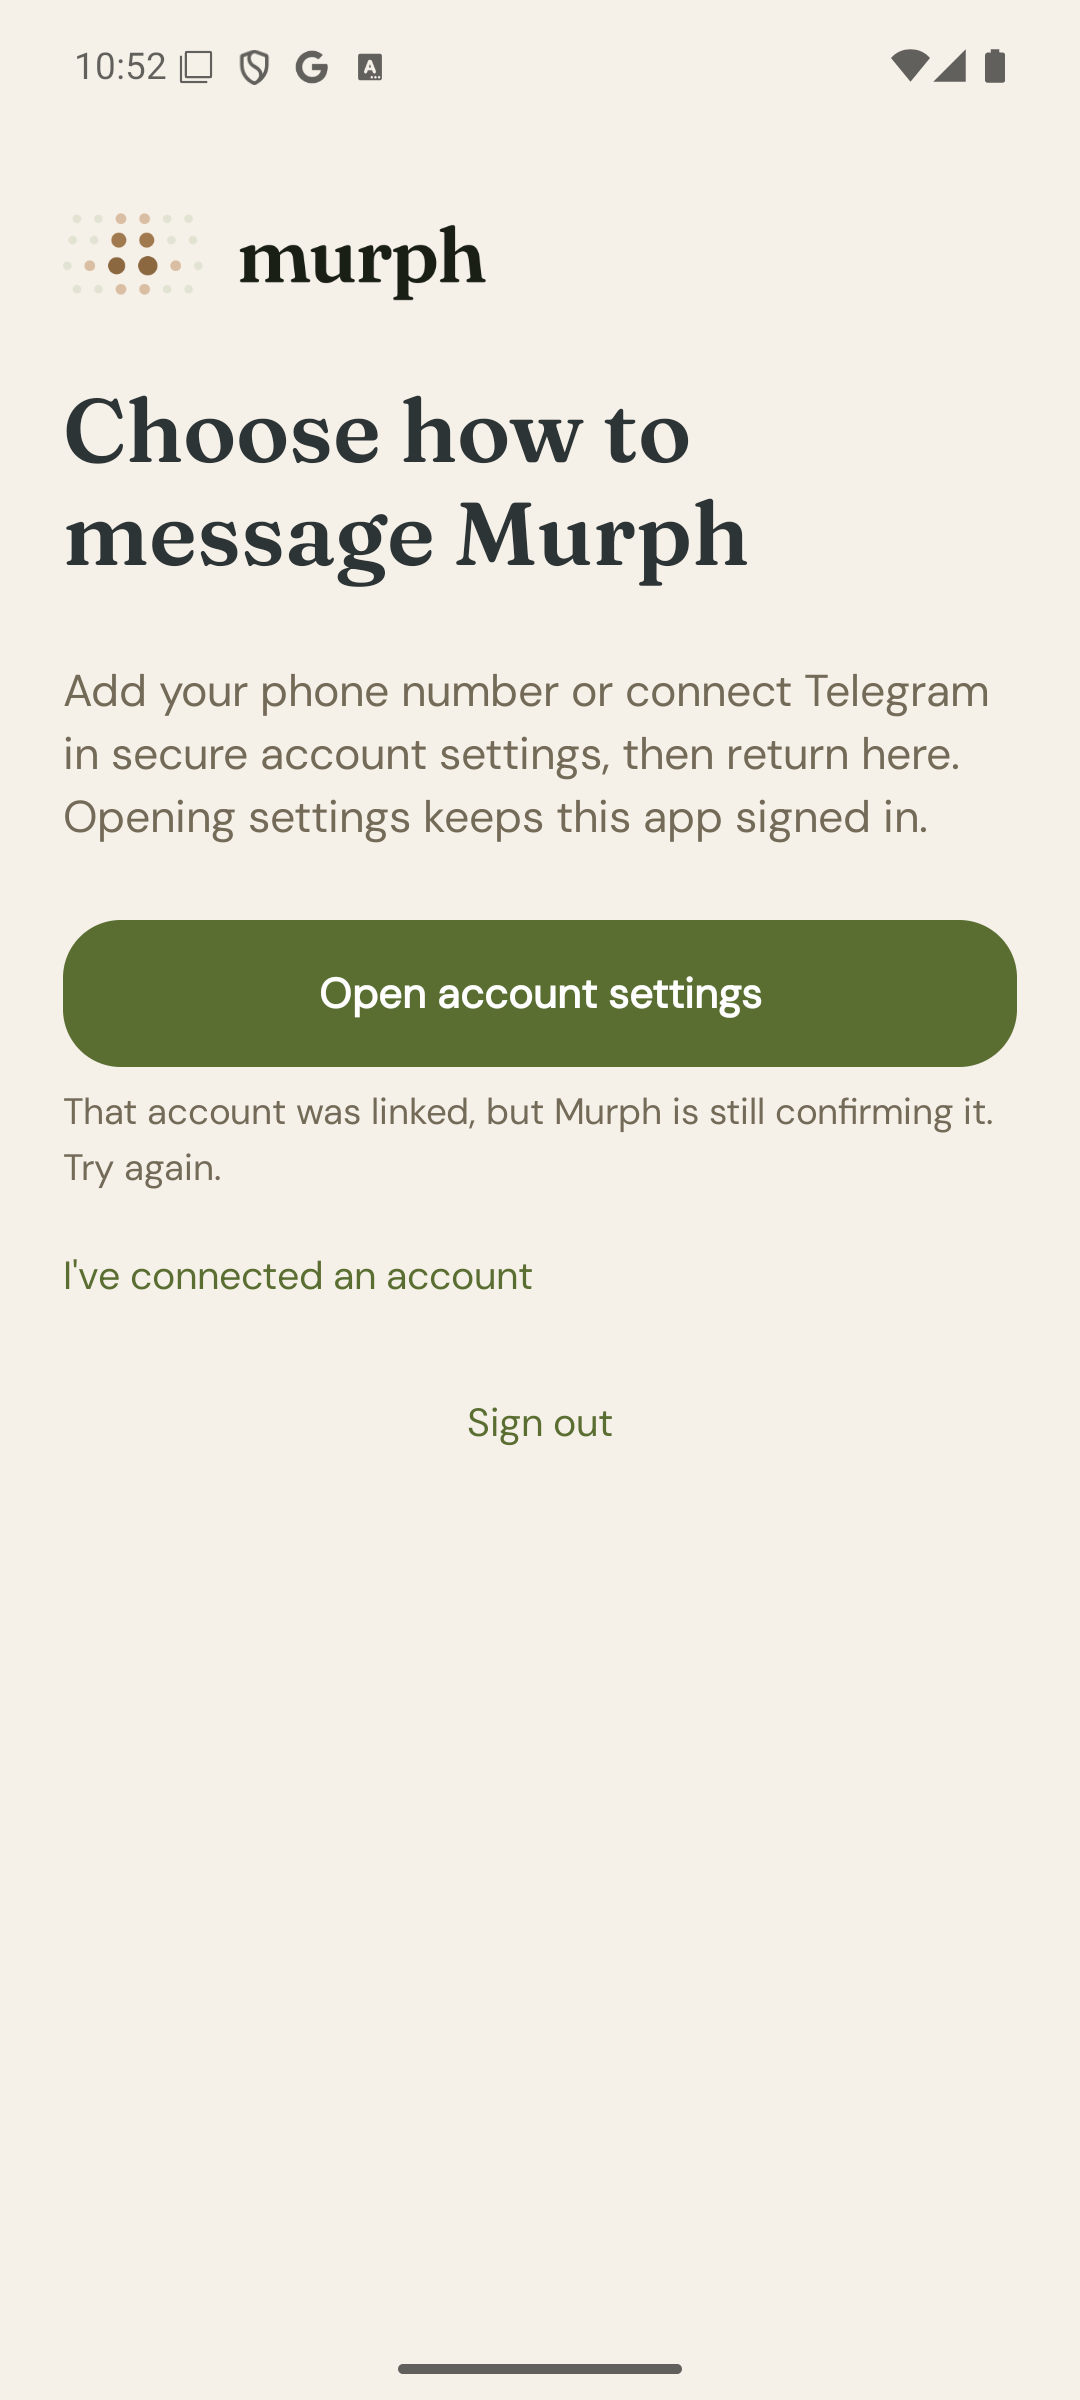
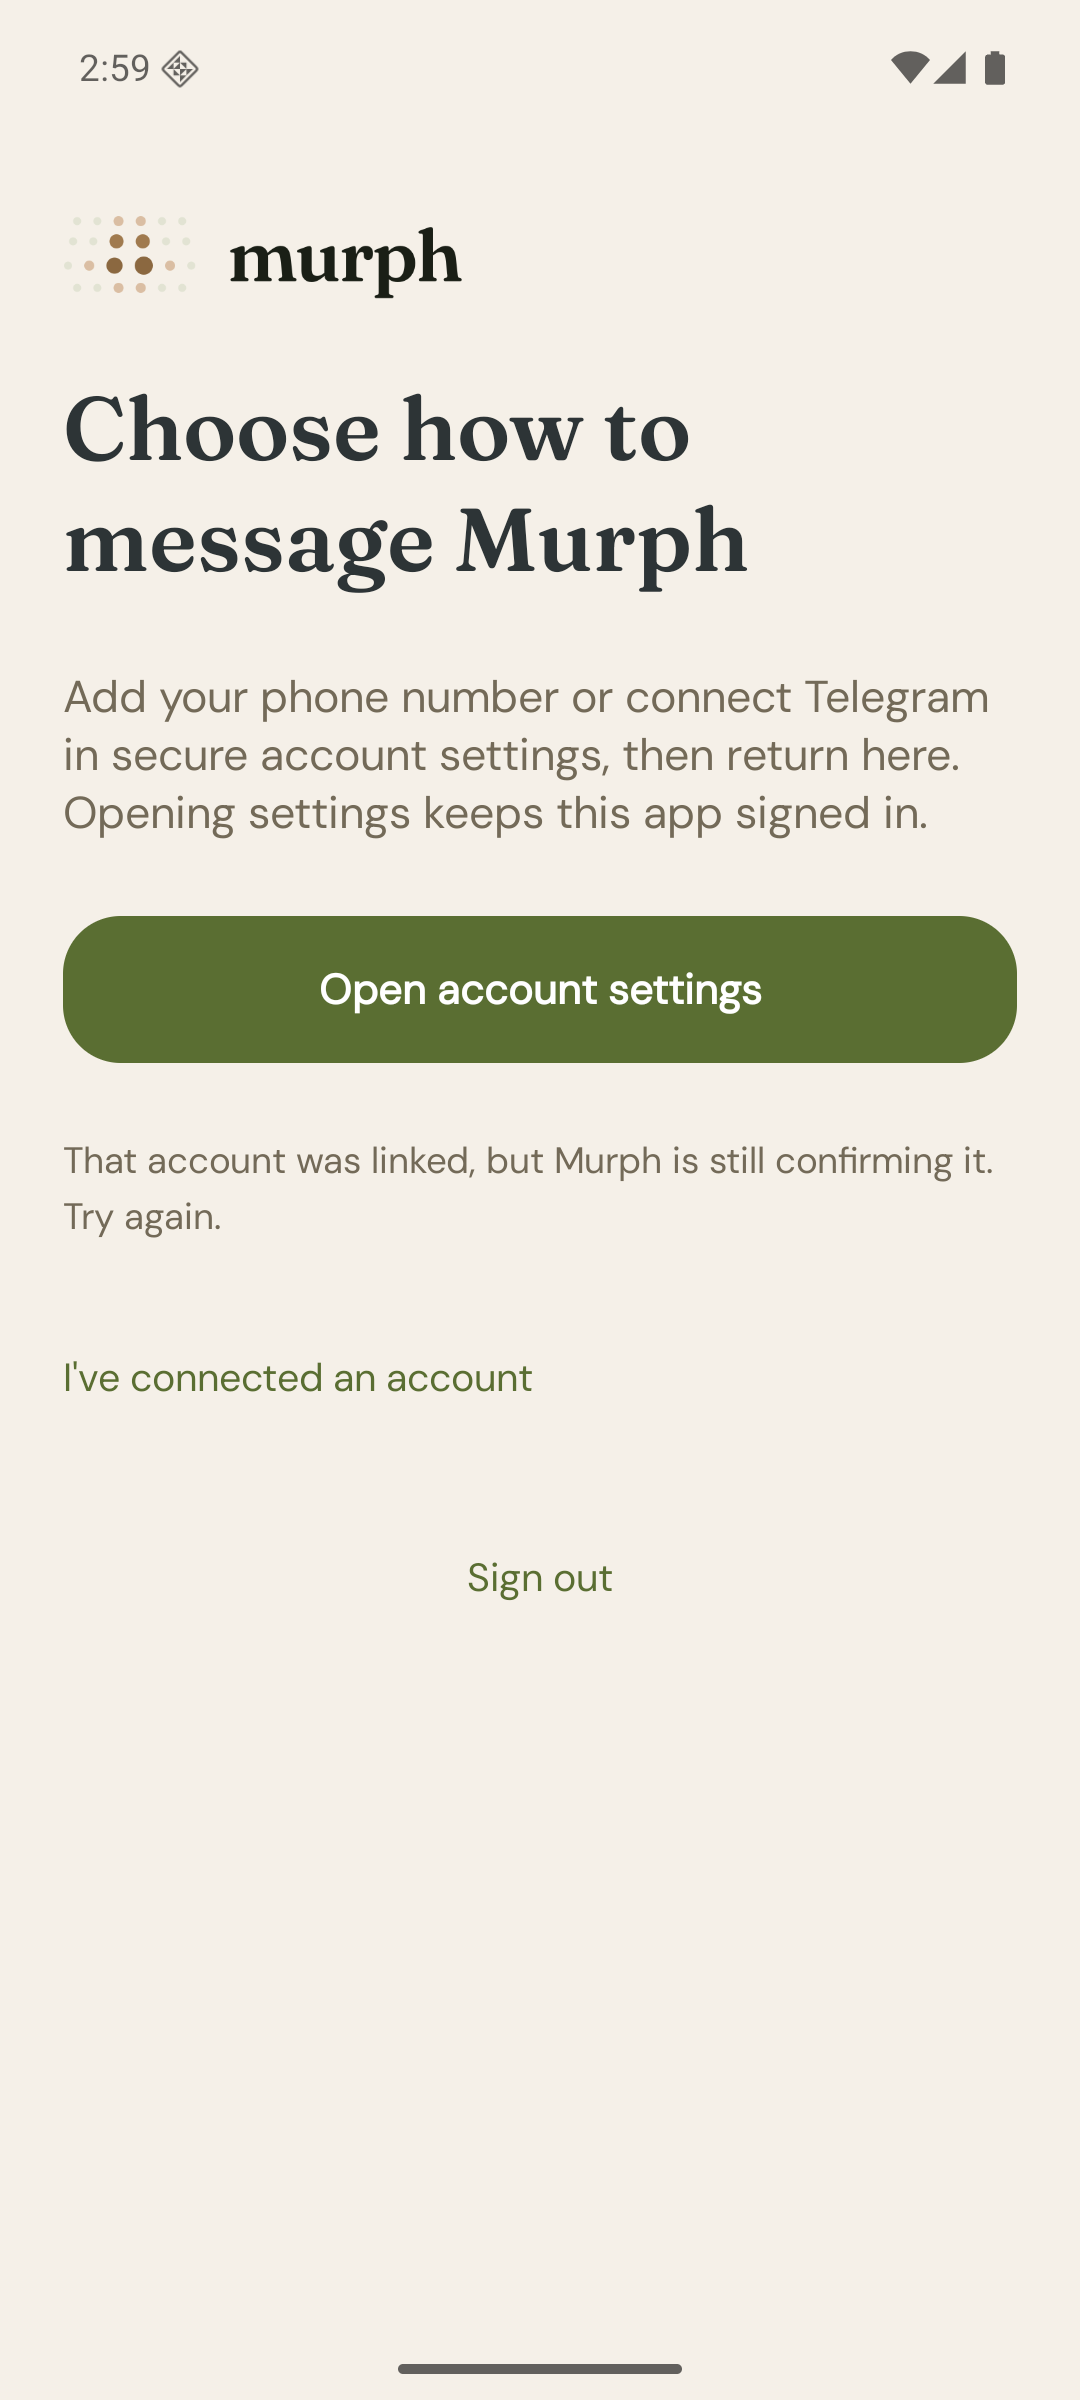
Match the messaging setup screen to iOS (#51)
* Match the messaging setup screen to iOS

Measured against the iOS MessagingSetupView at the same scale: use one
28dp-spaced stack for every element, the 34dp logo, 42sp title and 22sp
body line heights, and the iOS re-check presentation (controls keep their
color while input is blocked, with a centered "Confirming your account…"
capsule) instead of dimmed buttons and inline progress text.

* docs(onboarding): refresh inspected messaging setup evidence

* fix(onboarding): keep messaging confirmation mounted through admission

* docs(onboarding): capture production confirmation routing proof

---------

diff --git a/app/src/main/java/ai/withmurph/companion/ui/onboarding/MessagingSetupScreen.kt b/app/src/main/java/ai/withmurph/companion/ui/onboarding/MessagingSetupScreen.kt
@@ -9,14 +9,21 @@ import androidx.compose.foundation.background
 import androidx.compose.foundation.layout.Arrangement
 import androidx.compose.foundation.layout.Box
 import androidx.compose.foundation.layout.Column
+import androidx.compose.foundation.layout.Spacer
 import androidx.compose.foundation.layout.fillMaxSize
 import androidx.compose.foundation.layout.fillMaxWidth
+import androidx.compose.foundation.layout.height
 import androidx.compose.foundation.layout.padding
 import androidx.compose.foundation.layout.safeDrawingPadding
+import androidx.compose.foundation.layout.size
+import androidx.compose.foundation.layout.width
 import androidx.compose.foundation.layout.widthIn
 import androidx.compose.foundation.rememberScrollState
+import androidx.compose.foundation.shape.RoundedCornerShape
 import androidx.compose.foundation.verticalScroll
+import androidx.compose.material3.CircularProgressIndicator
 import androidx.compose.material3.MaterialTheme
+import androidx.compose.material3.Surface
 import androidx.compose.material3.Text
 import androidx.compose.runtime.Composable
 import androidx.compose.ui.Alignment
@@ -31,7 +38,7 @@ import androidx.compose.ui.unit.sp
 /**
  * Shown while the member has no phone or Telegram conversation with Murph.
  * Shared account settings prove and commit the link; returning here only
- * rereads canonical admission.
+ * rereads canonical admission. Layout mirrors the iOS MessagingSetupView.
  */
 @Composable
 fun MessagingSetupScreen(
@@ -40,6 +47,8 @@ fun MessagingSetupScreen(
     onConfirmConnected: () -> Unit,
     onSignOut: () -> Unit,
 ) {
+    // Like iOS, a re-check blocks input without dimming the controls; the
+    // centered capsule carries the progress state.
     val busy = state.isMessagingSetupRefreshing
     Box(
         modifier = Modifier
@@ -56,37 +65,59 @@ fun MessagingSetupScreen(
                 .padding(horizontal = 24.dp, vertical = 28.dp),
             verticalArrangement = Arrangement.spacedBy(28.dp),
         ) {
-            MurphLogo()
+            MurphLogo(Modifier.height(34.dp).width(152.dp))
             Text(
                 text = "Choose how to message Murph",
                 modifier = Modifier.semantics { heading() },
-                style = MaterialTheme.typography.displayLarge.copy(fontSize = 34.sp, lineHeight = 39.sp),
+                style = MaterialTheme.typography.displayLarge.copy(fontSize = 34.sp, lineHeight = 42.sp),
                 color = MurphColors.Slate,
             )
             Text(
                 text = "Add your phone number or connect Telegram in secure account settings, " +
                     "then return here. Opening settings keeps this app signed in.",
-                style = MaterialTheme.typography.bodyLarge.copy(fontSize = 17.sp),
+                style = MaterialTheme.typography.bodyLarge.copy(fontSize = 17.sp, lineHeight = 22.sp),
                 color = MurphColors.SlateMuted,
             )
-            Column(verticalArrangement = Arrangement.spacedBy(8.dp)) {
-                MurphPrimaryButton("Open account settings", onOpenAccountSettings, enabled = !busy)
-                val message = if (busy) "Confirming your account…" else state.messagingSetupMessage
-                if (message != null) {
+            MurphPrimaryButton("Open account settings", { if (!busy) onOpenAccountSettings() })
+            state.messagingSetupMessage?.let { message ->
+                Text(
+                    text = message,
+                    modifier = Modifier.semantics { liveRegion = LiveRegionMode.Polite },
+                    style = MaterialTheme.typography.bodyMedium.copy(fontSize = 14.sp),
+                    color = MurphColors.SlateMuted,
+                )
+            }
+            MurphLinkButton("I've connected an account", { if (!busy) onConfirmConnected() })
+            MurphLinkButton(
+                "Sign out",
+                { if (!busy) onSignOut() },
+                modifier = Modifier.align(Alignment.CenterHorizontally),
+            )
+        }
+        if (busy) {
+            Surface(
+                modifier = Modifier.align(Alignment.Center),
+                shape = RoundedCornerShape(50),
+                color = MurphColors.NavigationSurface,
+            ) {
+                Column(
+                    modifier = Modifier
+                        .padding(horizontal = 20.dp, vertical = 14.dp)
+                        .semantics { liveRegion = LiveRegionMode.Polite },
+                    horizontalAlignment = Alignment.CenterHorizontally,
+                ) {
+                    CircularProgressIndicator(
+                        modifier = Modifier.size(20.dp),
+                        color = MurphColors.SageDark,
+                        strokeWidth = 2.dp,
+                    )
+                    Spacer(Modifier.height(8.dp))
                     Text(
-                        text = message,
-                        modifier = Modifier.semantics { liveRegion = LiveRegionMode.Polite },
-                        style = MaterialTheme.typography.bodyMedium,
-                        color = MurphColors.SlateMuted,
+                        text = "Confirming your account…",
+                        style = MaterialTheme.typography.bodyMedium.copy(fontSize = 14.sp),
+                        color = MurphColors.Slate,
                     )
                 }
-                MurphLinkButton("I've connected an account", onConfirmConnected, enabled = !busy)
-                MurphLinkButton(
-                    "Sign out",
-                    onSignOut,
-                    modifier = Modifier.align(Alignment.CenterHorizontally),
-                    enabled = !busy,
-                )
             }
         }
     }

diff --git a/app/src/test/java/ai/withmurph/companion/app/AppSessionTest.kt b/app/src/test/java/ai/withmurph/companion/app/AppSessionTest.kt
@@ -1779,6 +1779,43 @@ class AppSessionTest {
     }
 
     @Test
+    fun suspendedMessagingAdmissionKeepsTheProductionRouteForManualAndBrowserRefresh() = runTest {
+        for (browserReturn in listOf(false, true)) {
+            for (outcome in listOf("confirmed", "pending", "failed")) {
+                val fixture = fixture()
+                fixture.api.initialOnboarding = completedInitialOnboarding().copy(messagingSetupRequired = true)
+                fixture.session.start()
+                val entered = CompletableDeferred<Unit>()
+                val release = CompletableDeferred<Unit>()
+                fixture.api.admissionHandler = { entered.complete(Unit); release.await() }
+                if (browserReturn) {
+                    fixture.session.noteMessagingSettingsOpened()
+                    fixture.session.didEnterBackground()
+                }
+                val refresh = async {
+                    if (browserReturn) fixture.session.didBecomeActive() else fixture.session.refreshMessagingSetup()
+                }
+                entered.await()
+                val pending = fixture.session.state.value
+                assertEquals(AppPhase.Launching, pending.phase)
+                assertTrue(pending.isMessagingSetupRefreshing)
+                assertTrue(ai.withmurph.companion.ui.showsMessagingSetup(pending))
+                // A second click cannot take ownership while admission is suspended.
+                assertFalse(fixture.session.refreshMessagingSetup())
+                if (outcome == "confirmed") fixture.api.initialOnboarding = completedInitialOnboarding()
+                if (outcome == "failed") fixture.api.admissionError = CompanionApiException.AdmissionRetryable
+                release.complete(Unit)
+                refresh.await()
+                val settled = fixture.session.state.value
+                assertFalse(settled.isMessagingSetupRefreshing)
+                assertEquals(outcome == "pending", ai.withmurph.companion.ui.showsMessagingSetup(settled))
+                if (outcome == "failed") assertTrue(settled.phase is AppPhase.Failed)
+                else assertEquals(AppPhase.Ready, settled.phase)
+            }
+        }
+    }
+
+    @Test
     fun refreshMessagingSetupReleasesGateOnceChannelIsConfirmed() = runTest {
         val fixture = fixture()
         fixture.api.initialOnboarding =

diff --git a/app/src/main/java/ai/withmurph/companion/ui/MurphApp.kt b/app/src/main/java/ai/withmurph/companion/ui/MurphApp.kt
@@ -162,6 +162,11 @@ internal fun readyAppShellState(
     )
 }
 
+internal fun showsMessagingSetup(state: AppUiState): Boolean =
+    state.messagingSetupRequired && state.launchConsentRecovery == null &&
+        (state.phase == AppPhase.Ready ||
+            state.phase == AppPhase.Launching && state.isMessagingSetupRefreshing)
+
 @Composable
 fun MurphApp(
     appState: AppUiState,
@@ -175,17 +180,17 @@ fun MurphApp(
     showLoginFormInitially: Boolean = false,
     showReminderSetup: Boolean = false,
 ) {
-    when (val phase = appState.phase) {
+    if (showsMessagingSetup(appState)) {
+        MessagingSetupScreen(
+            state = appState,
+            onOpenAccountSettings = actions.onOpenMessagingSettings,
+            onConfirmConnected = actions.onRefreshMessagingSetup,
+            onSignOut = actions.onSignOut,
+        )
+    } else when (val phase = appState.phase) {
         AppPhase.Launching -> LoadingScreen()
         AppPhase.NeedsLogin -> SignedOutApp(loginState, actions, showLoginFormInitially)
-        AppPhase.Ready -> if (appState.messagingSetupRequired && appState.launchConsentRecovery == null) {
-            MessagingSetupScreen(
-                state = appState,
-                onOpenAccountSettings = actions.onOpenMessagingSettings,
-                onConfirmConnected = actions.onRefreshMessagingSetup,
-                onSignOut = actions.onSignOut,
-            )
-        } else ReadyApp(
+        AppPhase.Ready -> ReadyApp(
             state = appState,
             showReminderSetup = showReminderSetup,
             healthSyncNotificationsAllowed = healthSyncNotificationsAllowed,

diff --git a/app/src/test/java/ai/withmurph/companion/ui/MurphAppShellStateTest.kt b/app/src/test/java/ai/withmurph/companion/ui/MurphAppShellStateTest.kt
@@ -11,6 +11,23 @@ import org.junit.Test
 
 class MurphAppShellStateTest {
     @Test
+    fun messagingProgressDoesNotOverrideStartupConsentLoginOrFailure() {
+        val refreshing = ai.withmurph.companion.app.AppUiState(
+            phase = AppPhase.Launching, messagingSetupRequired = true, isMessagingSetupRefreshing = true,
+        )
+        assertTrue(showsMessagingSetup(refreshing))
+        assertFalse(showsMessagingSetup(refreshing.copy(isMessagingSetupRefreshing = false)))
+        assertFalse(showsMessagingSetup(refreshing.copy(messagingSetupRequired = false)))
+        assertFalse(showsMessagingSetup(refreshing.copy(phase = AppPhase.NeedsLogin)))
+        assertFalse(showsMessagingSetup(refreshing.copy(phase = AppPhase.Failed("Unavailable"))))
+        assertFalse(showsMessagingSetup(refreshing.copy(
+            launchConsentRecovery = ai.withmurph.companion.app.LaunchConsentRecoveryUiState(
+                phase = ai.withmurph.companion.app.LaunchConsentRecoveryPhase.Required,
+            ),
+        )))
+    }
+
+    @Test
     fun suspendedBoundMemberKeepsSupportAccountAndLegalActionsReachable() {
         val invoked = mutableListOf<String>()
         val actions = failureExternalActions(

diff --git a/app/src/debug/java/ai/withmurph/companion/visual/ScreenshotActivity.kt b/app/src/debug/java/ai/withmurph/companion/visual/ScreenshotActivity.kt
@@ -245,6 +245,7 @@ internal enum class ScreenshotScenario {
     ReminderNotification,
     MessagingSetup,
     MessagingSetupPending,
+    MessagingSetupConfirming,
     AccountFailure,
     Failure;
 
@@ -389,6 +390,11 @@ internal enum class ScreenshotScenario {
         ReminderOn, ReminderBlocked, ReminderNotification ->
             ready(HealthSyncState.Synced(now)).copy(healthSyncReminderEnabled = true)
         MessagingSetup -> ready(HealthSyncState.NotConnected).copy(messagingSetupRequired = true)
+        MessagingSetupConfirming -> ready(HealthSyncState.NotConnected).copy(
+            phase = AppPhase.Launching,
+            messagingSetupRequired = true,
+            isMessagingSetupRefreshing = true,
+        )
         MessagingSetupPending -> ready(HealthSyncState.NotConnected).copy(
             messagingSetupRequired = true,
             messagingSetupMessage = "That account was linked, but Murph is still confirming it. Try again.",
@@ -467,6 +473,7 @@ internal enum class ScreenshotScenario {
     ReminderNotification,
     MessagingSetup,
     MessagingSetupPending,
+    MessagingSetupConfirming,
     AccountFailure,
     Failure -> LoginUiState()
     }

diff --git a/app/src/androidTestSynthetic/java/ai/withmurph/companion/visual/ScreenshotScenarioSmokeTest.kt b/app/src/androidTestSynthetic/java/ai/withmurph/companion/visual/ScreenshotScenarioSmokeTest.kt
@@ -32,6 +32,19 @@ class ScreenshotScenarioSmokeTest {
     val compose = createEmptyComposeRule()
 
     @Test
+    fun launchingMessagingRefreshKeepsTheCapsuleAndBlocksActions() {
+        val context = ApplicationProvider.getApplicationContext<Context>()
+        val intent = Intent(context, ScreenshotActivity::class.java)
+            .putExtra(ScreenshotActivity.SCENARIO_EXTRA, "messagingSetupConfirming")
+        ActivityScenario.launch<ScreenshotActivity>(intent).use { scenario ->
+            compose.onNodeWithText("Choose how to message Murph").assertIsDisplayed()
+            compose.onNodeWithText("Confirming your account…").assertIsDisplayed()
+            compose.onNodeWithText("Sign out").performScrollTo().performClick()
+            scenario.onActivity { assertEquals(0, it.signOutRequests) }
+        }
+    }
+
+    @Test
     fun optionalReminderRequiresExplicitChoiceAndCanBeSkipped() {
         val context = ApplicationProvider.getApplicationContext<Context>()
         val intent = Intent(context, ScreenshotActivity::class.java)

diff --git a/docs/messaging-setup-review-plan.md b/docs/messaging-setup-review-plan.md
@@ -1,0 +1,20 @@
+# Messaging setup confirmation review
+
+The first ZIP review identified that canonical admission moves through Launching,
+which replaced messaging setup with the generic loader. The accepted correction
+keeps the same messaging composable mounted while its existing refresh flag is
+set. Startup, consent recovery, signed-out and failure routing retain priority.
+There is no new progress owner or admission policy.
+
+A suspended real AppSession admission test checks the production routing function
+for manual confirmation and browser return, then confirmed, pending and failed
+outcomes. The Launching screenshot fixture and emulator test verify the visible
+capsule and blocked sign-out action. Full verification, 22 review-tooling tests
+and 60 emulator tests passed (one intentional protected live-journey skip).
+All four recaptured raw images were inspected before commit. Capture metadata
+records the exact source head, APK hash and raw image hashes.
+
+Trusted capture validation comes from separately reviewed tooling PR 55. The
+old response remains a findings record, not a final-context PASS. A fresh normal
+ZIP review and all final-head hosted checks are still required before merge.
+No app upload, real account test, canary or secret change is included.
